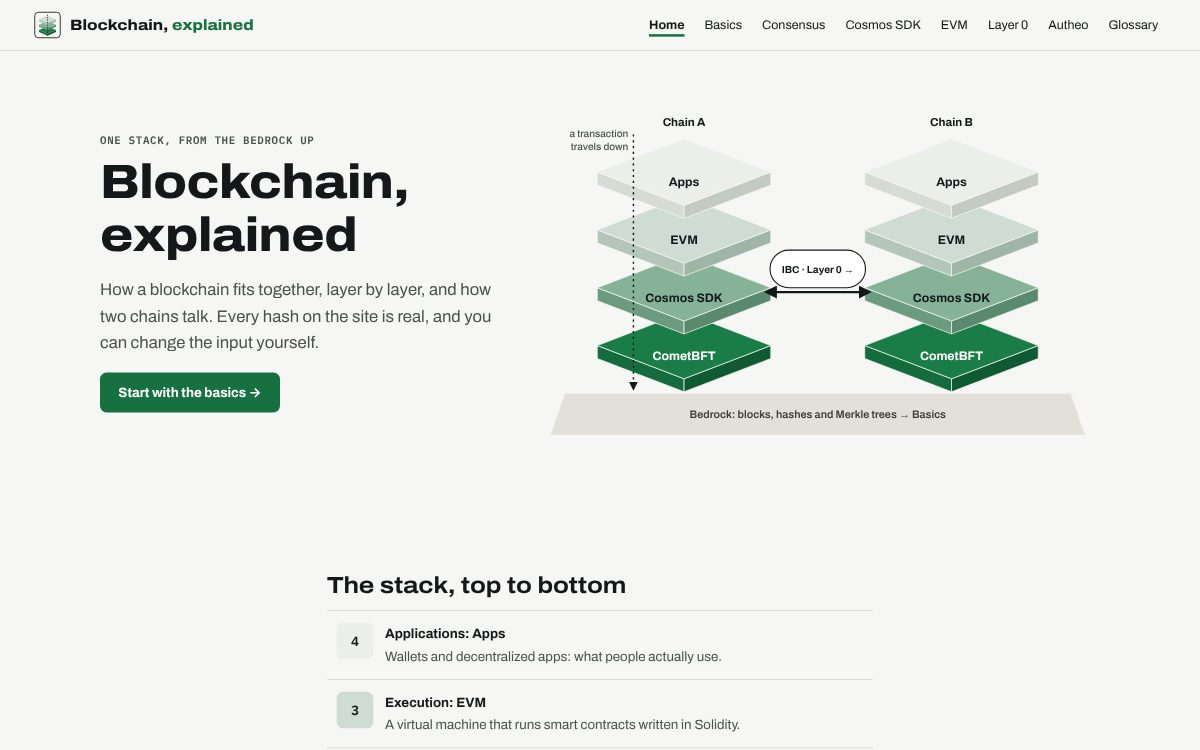
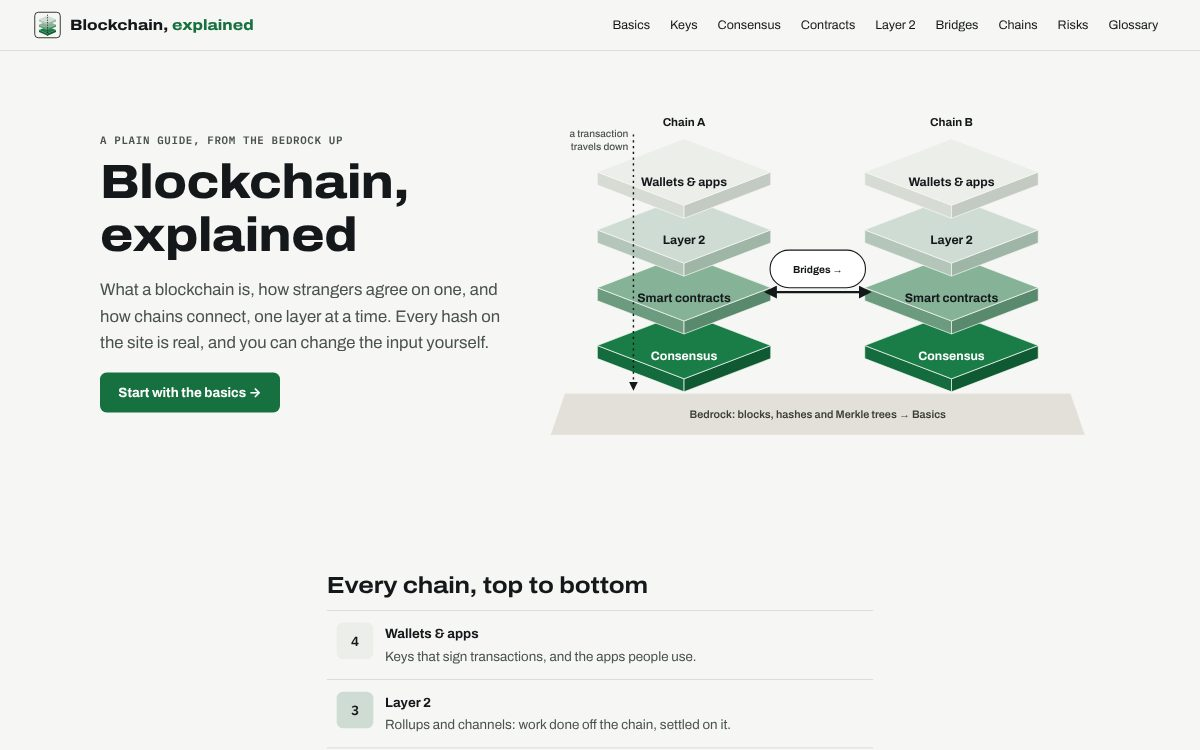
Blockchain, explained: now a general guide; new line and card
Claude-Session: https://claude.ai/code/session_01Sp4uVaSfPTnARaHZUQe5XT

diff --git a/site/index.html b/site/index.html
@@ -255,11 +255,11 @@
             <span class="meta">
               <span class="plate">No. 16</span>
               <span class="title" id="t-blockchain-explain">Blockchain, explained</span>
-              <span class="line">A blockchain drawn as what it is: two stacks of layers on one bedrock of hashes, joined by an IBC bridge. Every hash on the site is computed, and you can break the chain yourself.</span>
+              <span class="line">A plain guide to how blockchains work, drawn as one stack of layers on a bedrock of hashes: keys, proof of work and stake, contracts, layer 2, bridges and risks. Mine a block, sign a transaction, break the chain.</span>
               <span class="go" id="g-blockchain-explain">Visit blockchain-explain.shadw.app<span class="sr-only"> (opens in a new tab)</span></span>
             </span>
           </a>
-          <ul class="tags"><li>Guides</li><li>10 pages</li><li>SHA-256, live</li><li>Logo 2.0</li></ul>
+          <ul class="tags"><li>Guides</li><li>13 pages</li><li>Live SHA-256 and signatures</li><li>Logo 2.0</li></ul>
         </li>
         <li class="card" data-group="maps" id="work-physics-map">
           <a href="https://physics-map.shadw.app" target="_blank" rel="noopener" aria-labelledby="t-physics-map g-physics-map">
